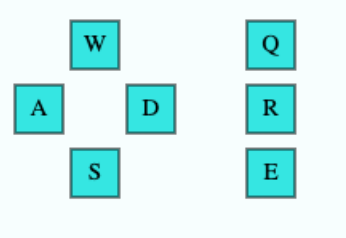
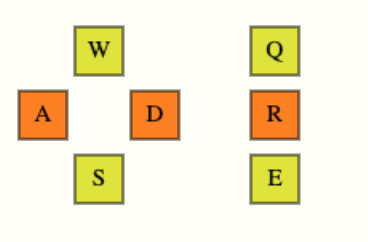
Final commit

diff --git a/project/room/mesh.js b/project/room/mesh.js
@@ -63,28 +63,29 @@ class Mesh {
 
     
     render(gl, programInfo, uniforms){
-        if (!this.ready) return;    // waiting for async functions to complete
+   
+            if (!this.ready) return;    // waiting for async functions to complete
 
-        gl.useProgram(programInfo.program);
-        webglUtils.setUniforms(programInfo, uniforms);     // calls gl.uniform
-
-        // compute the world matrix
-        let u_world = m4.identity()
-
-        if (this.rotate === true && uniforms.u_textureMatrix !== m4.identity() ){
-            u_world = m4.yRotate(u_world, degToRad(this.angle));
-            this.angle = this.angle === 360? 0 : this.angle+5;
+            gl.useProgram(programInfo.program);
+            webglUtils.setUniforms(programInfo, uniforms);     // calls gl.uniform
+    
+            // compute the world matrix
+            let u_world = m4.identity()
+    
+            if (this.rotate === true && uniforms.u_textureMatrix !== m4.identity() ){
+                u_world = m4.yRotate(u_world, degToRad(this.angle));
+                this.angle = this.angle === 360? 0 : this.angle+5;
+            }
+    
+            for (const {bufferInfo, material} of this.obj.parts) {
+                // calls gl.bindBuffer, gl.enableVertexAttribArray, gl.vertexAttribPointer
+                webglUtils.setBuffersAndAttributes(gl, programInfo, bufferInfo);
+                // calls gl.uniform
+                webglUtils.setUniforms(programInfo, {
+                    u_world,
+                }, material);
+                // calls gl.drawArrays or gl.drawElements
+                webglUtils.drawBufferInfo(gl, bufferInfo);
+            }
         }
-
-        for (const {bufferInfo, material} of this.obj.parts) {
-            // calls gl.bindBuffer, gl.enableVertexAttribArray, gl.vertexAttribPointer
-            webglUtils.setBuffersAndAttributes(gl, programInfo, bufferInfo);
-            // calls gl.uniform
-            webglUtils.setUniforms(programInfo, {
-                u_world,
-            }, material);
-            // calls gl.drawArrays or gl.drawElements
-            webglUtils.drawBufferInfo(gl, bufferInfo);
-        }
-    }
 }

diff --git a/project/room/camera.js b/project/room/camera.js
@@ -76,13 +76,13 @@ function makeKeyCanvas() {
     ctx.clearRect(0, 0, width, height);
 
     var buttons = [];
-    buttons.push(makeButton(1, 40,100, 30, 30, 'S', '#21e6e3', 'black', 'black', function () { camera.moveForward(-0.1); }))
-    buttons.push(makeButton(2, 40, 20, 30, 30, 'W', '#21e6e3', 'black', 'black', function () { camera.moveForward(0.1); }))
-    buttons.push(makeButton(3, 75, 60, 30, 30, 'D', '#21e6e3', 'black', 'black', function () { camera.moveRight(0.1); }))
-    buttons.push(makeButton(4, 5, 60, 30, 30, 'A', '#21e6e3', 'black', 'black', function () { camera.moveRight(-0.1); }))
-    buttons.push(makeButton(5, 150, 20, 30, 30, 'Q', '#21e6e3', 'black', 'black', function () { camera.moveUp(0.1); }))
-    buttons.push(makeButton(6, 150, 100, 30, 30, 'E', '#21e6e3', 'black', 'black', function () { camera.moveUp(-0.1); }))
-    buttons.push(makeButton(6, 150, 60, 30, 30, 'R', '#21e6e3', 'black', 'black', function () { camera.reset(); }))
+    buttons.push(makeButton(1, 40,100, 30, 30, 'S', '#dfe621', 'black', 'black', function () { camera.moveForward(-0.1); }))
+    buttons.push(makeButton(2, 40, 20, 30, 30, 'W', '#dfe621', 'black', 'black', function () { camera.moveForward(0.1); }))
+    buttons.push(makeButton(3, 75, 60, 30, 30, 'D', '#FF8000', 'black', 'black', function () { camera.moveRight(0.1); }))
+    buttons.push(makeButton(4, 5, 60, 30, 30, 'A', '#FF8000', 'black', 'black', function () { camera.moveRight(-0.1); }))
+    buttons.push(makeButton(5, 150, 20, 30, 30, 'Q', '#dfe621', 'black', 'black', function () { camera.moveUp(0.1); }))
+    buttons.push(makeButton(6, 150, 100, 30, 30, 'E', '#dfe621', 'black', 'black', function () { camera.moveUp(-0.1); }))
+    buttons.push(makeButton(6, 150, 60, 30, 30, 'R', '#FF8000', 'black', 'black', function () { camera.reset(); }))
 
     drawAll();
     cameraCanvas.addEventListener("click", function (e) {

diff --git a/project/room/render.js b/project/room/render.js
@@ -11,6 +11,7 @@ function render() {
     let proj = scene.projectionMatrix()
 
     if(scene.shadows.enable){
+        
         const lightWorldMatrix = m4.lookAt(
             light.position,       // position
             light.direction.map(l =>  -l),      // target

diff --git a/doc/style.css b/doc/style.css
@@ -31,7 +31,7 @@ body{
 }
 
 hr.solid {
-    border-top: 3px solid #21e6e3;
+    border-top: 3px solid #dfe621;
   }
 
 .img{

diff --git a/project/style.css b/project/style.css
@@ -42,7 +42,8 @@
 }
 
 body {
-    background: #21e6e3;
+    background: #dfe621;
+   
 }
 
 #canvas{
